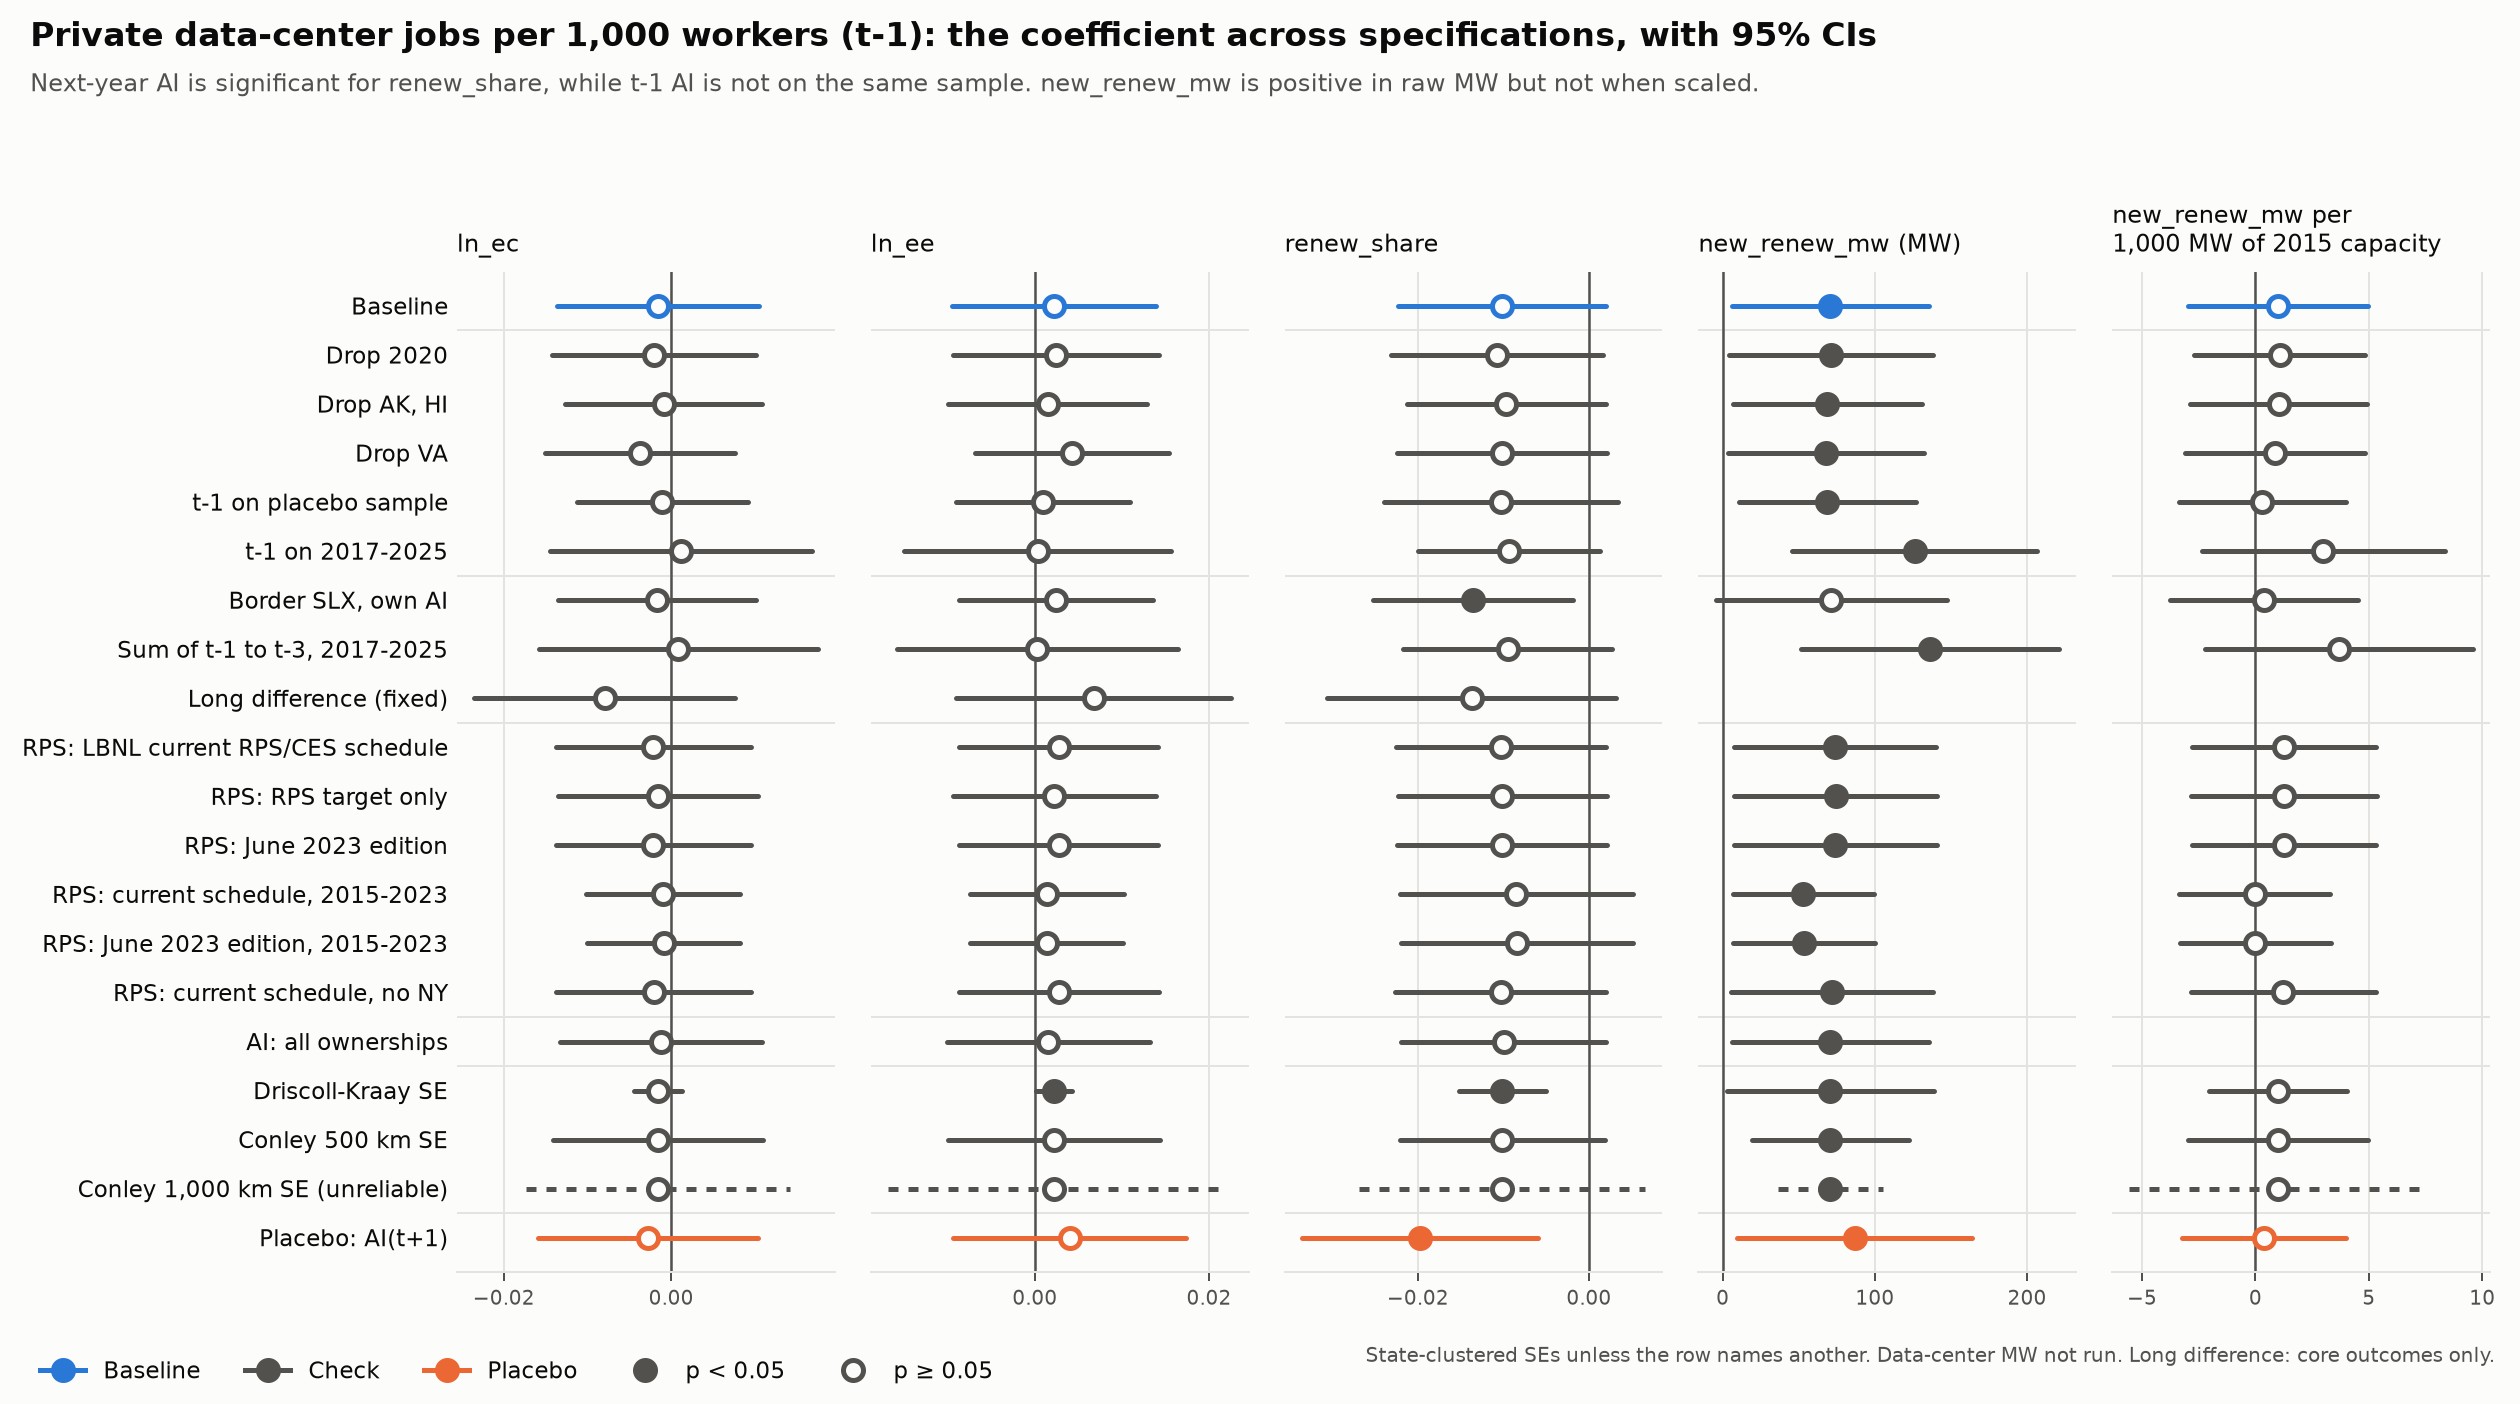
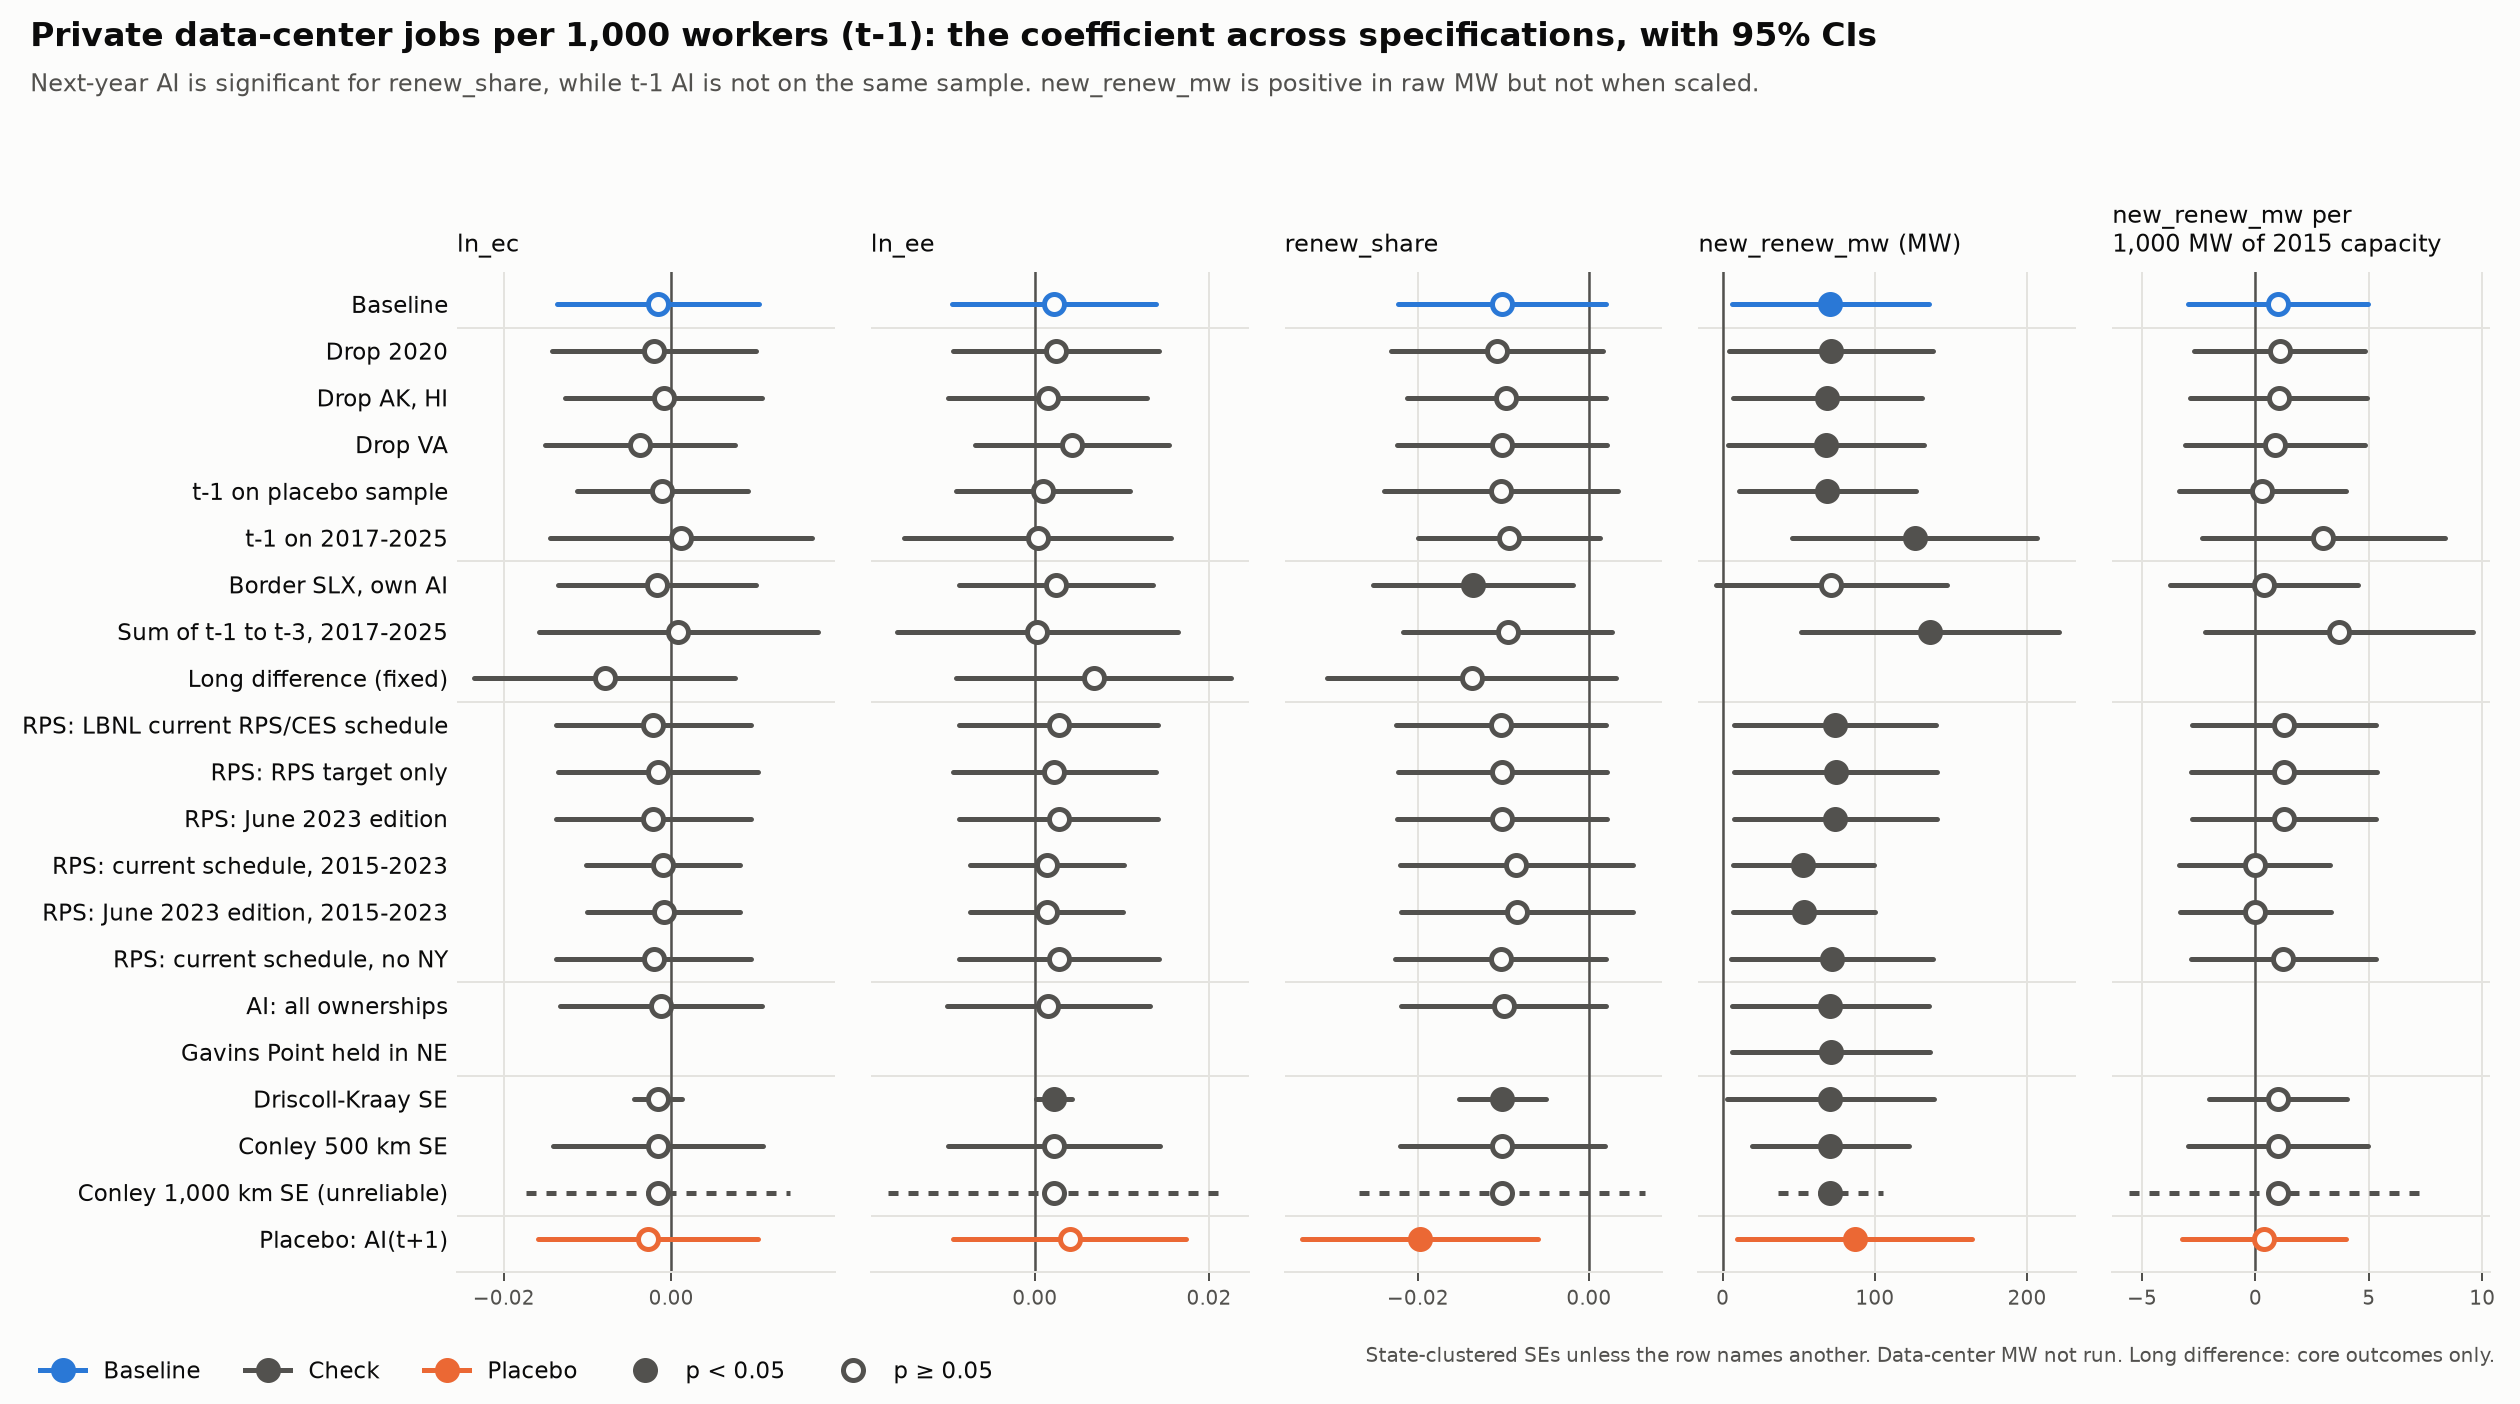
Add new_renew_mw row with Gavins Point held in NE
The panel keeps EIA's data as published. All other robustness rows are unchanged.

diff --git a/results/2026-11-04/robustness/spec_curve.tex b/results/2026-11-04/robustness/spec_curve.tex
@@ -19,6 +19,7 @@ RPS: current schedule, 2015-2023 & -0.0009 (0.837) & 0.0014 (0.750) & -0.0085 (0
 RPS: June 2023 edition, 2015-2023 & -0.0009 (0.844) & 0.0014 (0.756) & -0.0084 (0.221) & 53.47 (0.026) & -0.01 (0.996) \\
 RPS: current schedule, no NY & -0.0021 (0.720) & 0.0028 (0.627) & -0.0103 (0.100) & 71.92 (0.034) & 1.23 (0.546) \\
 AI: all ownerships & -0.0012 (0.841) & 0.0016 (0.789) & -0.0100 (0.102) & 70.79 (0.032) & -- \\
+Gavins Point held in NE & -- & -- & -- & 71.02 (0.033) & -- \\
 Driscoll-Kraay SE & -0.0016 (0.246) & 0.0022 (0.036) & -0.0101 (0.001) & 70.84 (0.043) & 1.00 (0.484) \\
 Conley 500 km SE & -0.0016 (0.807) & 0.0022 (0.722) & -0.0101 (0.097) & 70.84 (0.007) & 1.00 (0.622) \\
 Conley 1,000 km SE (unreliable) & -0.0016 (0.845) & 0.0022 (0.820) & -0.0101 (0.235) & 70.84 ($<$0.001) & 1.00 (0.765) \\

diff --git a/code/python/04e_spec_curve.py b/code/python/04e_spec_curve.py
@@ -34,6 +34,7 @@ ROWS = [  # label, group, filter
  ("RPS: June 2023 edition, 2015-2023","Controls", lambda x: (x.spec=="rps-ed2023-to2023")&(x.coef==AI)),
  ("RPS: current schedule, no NY", "Controls", lambda x: (x.spec=="rps-noNY")&(x.coef==AI)),
  ("AI: all ownerships",           "AI measure", lambda x: (x.spec=="allown")),
+ ("Gavins Point held in NE",      "AI measure", lambda x: (x.spec=="gavins-ne")),
  ("Driscoll-Kraay SE",            "SE",       lambda x: (x.spec=="dk")),
  ("Conley 500 km SE",             "SE",       lambda x: (x.spec=="conley500")),
  ("Conley 1,000 km SE (unreliable)","SE",     lambda x: (x.spec=="conley1000")),

diff --git a/results/2026-11-04/robustness/RECEIPT.md b/results/2026-11-04/robustness/RECEIPT.md
@@ -1,5 +1,5 @@
 # Phase 4e robustness: RECEIPT, 2026-11-04
-Driver: `code/R/04e_robustness.R --date 2026-11-04`. Spec curve: `code/python/04e_spec_curve.py --date 2026-11-04`. Spec: EXPERIMENTS.md section 9 and section 0 items 21 and 24. Log: `logs/2026-11-04/04e_robustness.log`. Stretch goals not run.
+Driver: `code/R/04e_robustness.R --date 2026-11-04`. Spec curve: `code/python/04e_spec_curve.py --date 2026-11-04`. Spec: EXPERIMENTS.md section 9 and section 0 items 21 and 24. Log: `logs/2026-11-04/04e_robustness.log`. Rerun the same day to add the Gavins Point row; every other row is unchanged. Stretch goals not run.
 
 ## Gate
 18 of 18 checks reproduce the stored 4b and 4d estimates and SEs within 1e-8 (`gate.csv`).
@@ -10,6 +10,8 @@ All 111 rows that ran on Nov 3 are identical, with no difference in any estimate
 ## New rows
 - **A5, RPS control:** main = `target_pct`, the "LBNL current RPS/CES schedule." Checks: RPS target only; June 2023 edition, 2015-2025 and 2015-2023; current schedule on 2015-2023 to compare; without NY. Each row is paired with a `-coef` row for the control's own coefficient.
 - **All-ownership AI:** private + published government 518210 jobs (`data/ai_allown_518210.csv`), winsorized by the same rule as the baseline. Suppressed government rows count as 0.
+
+- **Gavins Point held in NE:** one `new_renew_mw` row, with NE and SD adjusted by 132.3 MW in 2016 and 2018, winsorized by the same rule. The panel keeps EIA's data as published.
 
 ## Results to read first
 - **RPS:** the AI coefficient barely moves, and the control is never significant at 5%. EXPERIMENTS.md expected it to shrink; it didn't.
@@ -26,4 +28,4 @@ As in the Nov 3 receipt: the lead is winsorized at 1/99 (`placebo-nowins` shows 
 1,000 km: all five VCOVs are not positive definite and were eigenvalue-fixed, so treat those rows as unreliable (`conley_vcov_check.csv`).
 
 ## Files
-`robustness.csv` (178 rows: 175 ok, 3 NOT_RUN), `gate.csv`, `spec_curve.csv`, `spec_curve.tex`, `PROVENANCE.md`, `conley_*.csv`, `../figures/04e_spec_curve.png`
+`robustness.csv` (179 rows: 176 ok, 3 NOT_RUN), `gate.csv`, `spec_curve.csv`, `spec_curve.tex`, `PROVENANCE.md`, `conley_*.csv`, `../figures/04e_spec_curve.png`

diff --git a/results/2026-11-04/robustness/PROVENANCE.md b/results/2026-11-04/robustness/PROVENANCE.md
@@ -1,5 +1,5 @@
 # Provenance: spec curve, 2026-11-04
 - Source rows: `results/2026-11-04/robustness/robustness.csv`, from `code/R/04e_robustness.R --date 2026-11-04`
-- Built by: `code/python/04e_spec_curve.py --date 2026-11-04`; base commit ae6e236
+- Built by: `code/python/04e_spec_curve.py --date 2026-11-04`; base commit 080a014
 - Outputs: `spec_curve.csv`, `spec_curve.tex`, `results/2026-11-04/figures/04e_spec_curve.png`
 - Every row in `spec_curve.csv` carries the tag of its source row. Nothing is typed by hand.
